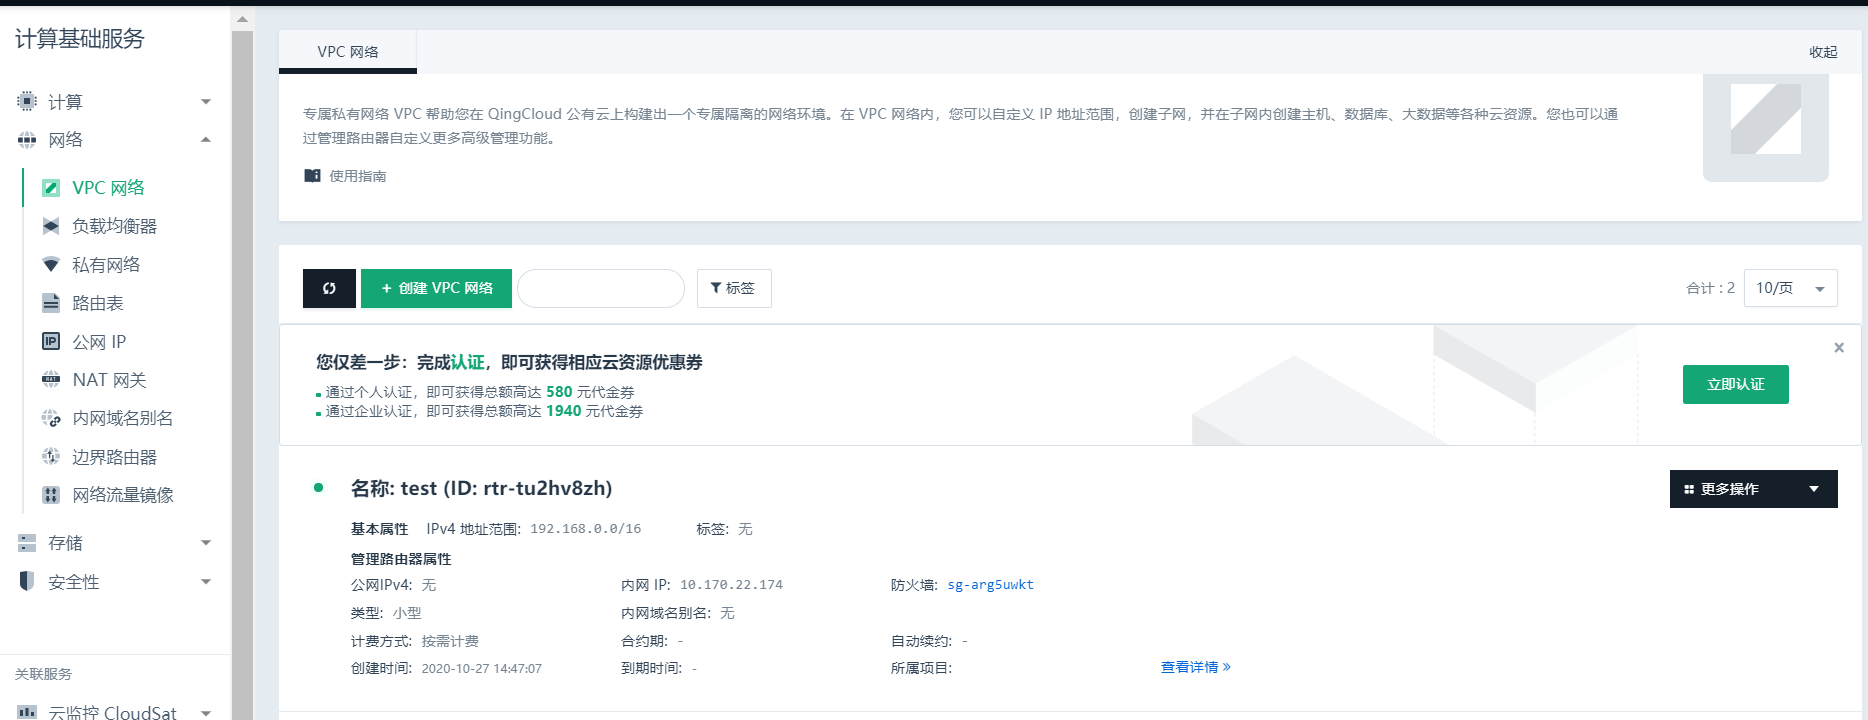
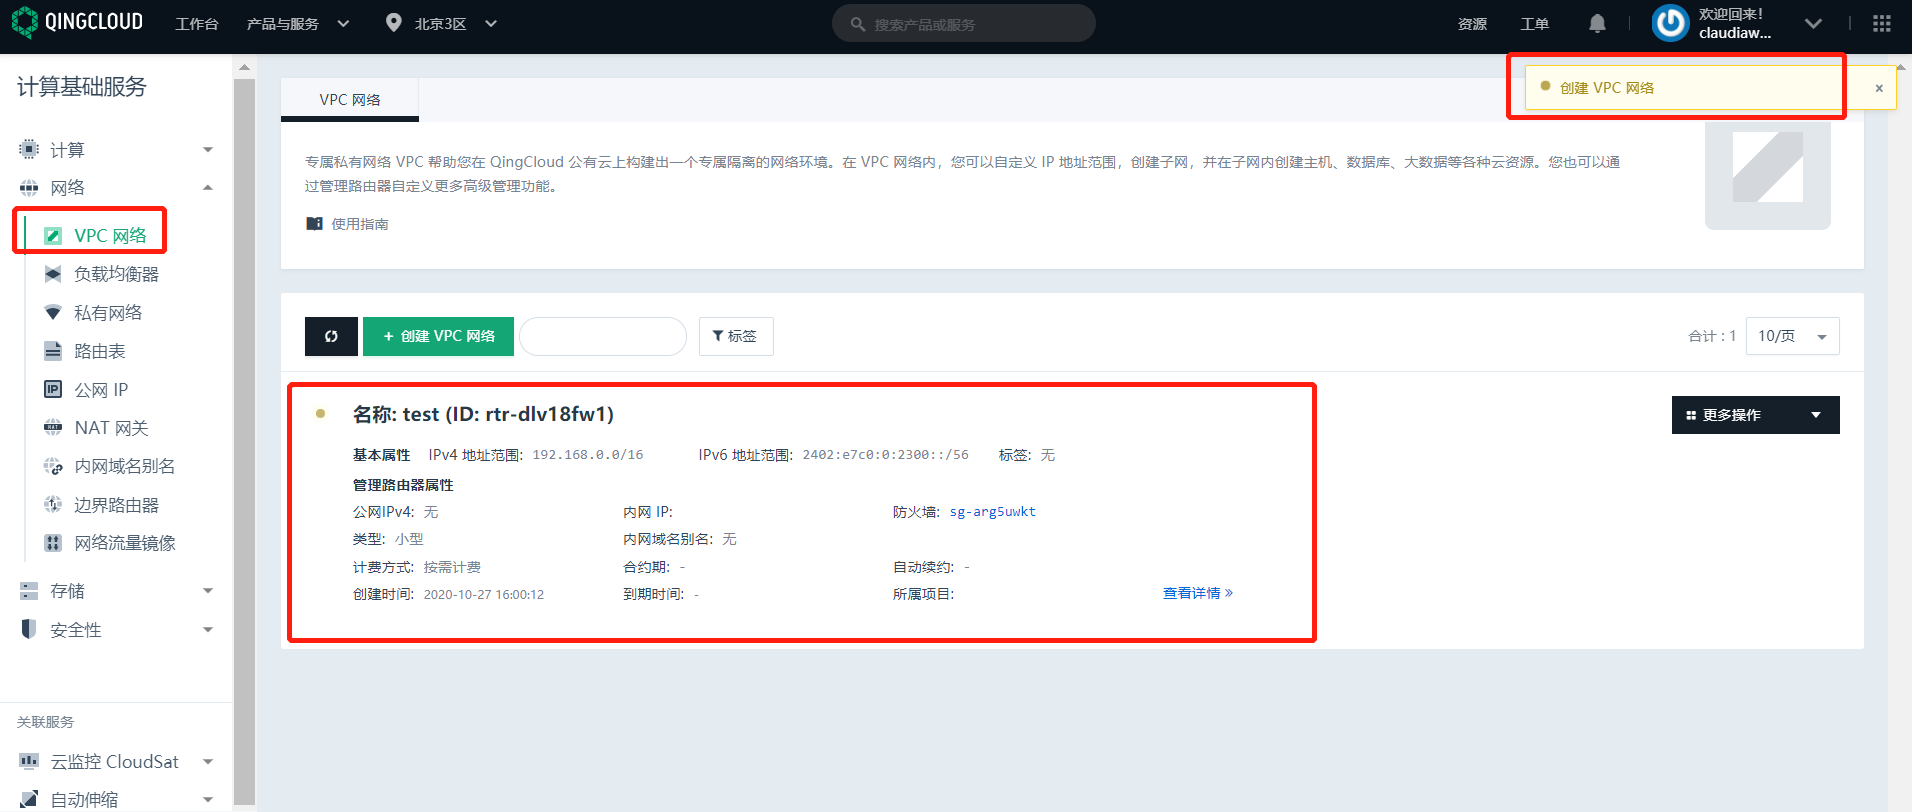
update images

diff --git a/content/authorization/iam/best-practices/scenario2.md b/content/authorization/iam/best-practices/scenario2.md
@@ -36,10 +36,13 @@ weight: 31
 
 ![demo2_SwitchRole](../../_images/demo2_SwitchRole.png)
 
-1.工作台处产品资源有路由器和私有网络入口，不再有其他入口
+1.导航栏处显示全部模块入口，已配置了访问权限的VPC和路由表可能成功查看和创建，未配置访问权限的模块则没有权限执行操作（如主机）
 
 ![demo2_Dashboard](../../_images/demo2_Dashboard.png)
+
+![demo2_Dashboard](../../_images/demo2_Dashboard1.png)
 
 2.能成功查看和创建 VPC
 
 ![demo2_CreateVPC](../../_images/demo2_CreateVPC.png)
+
